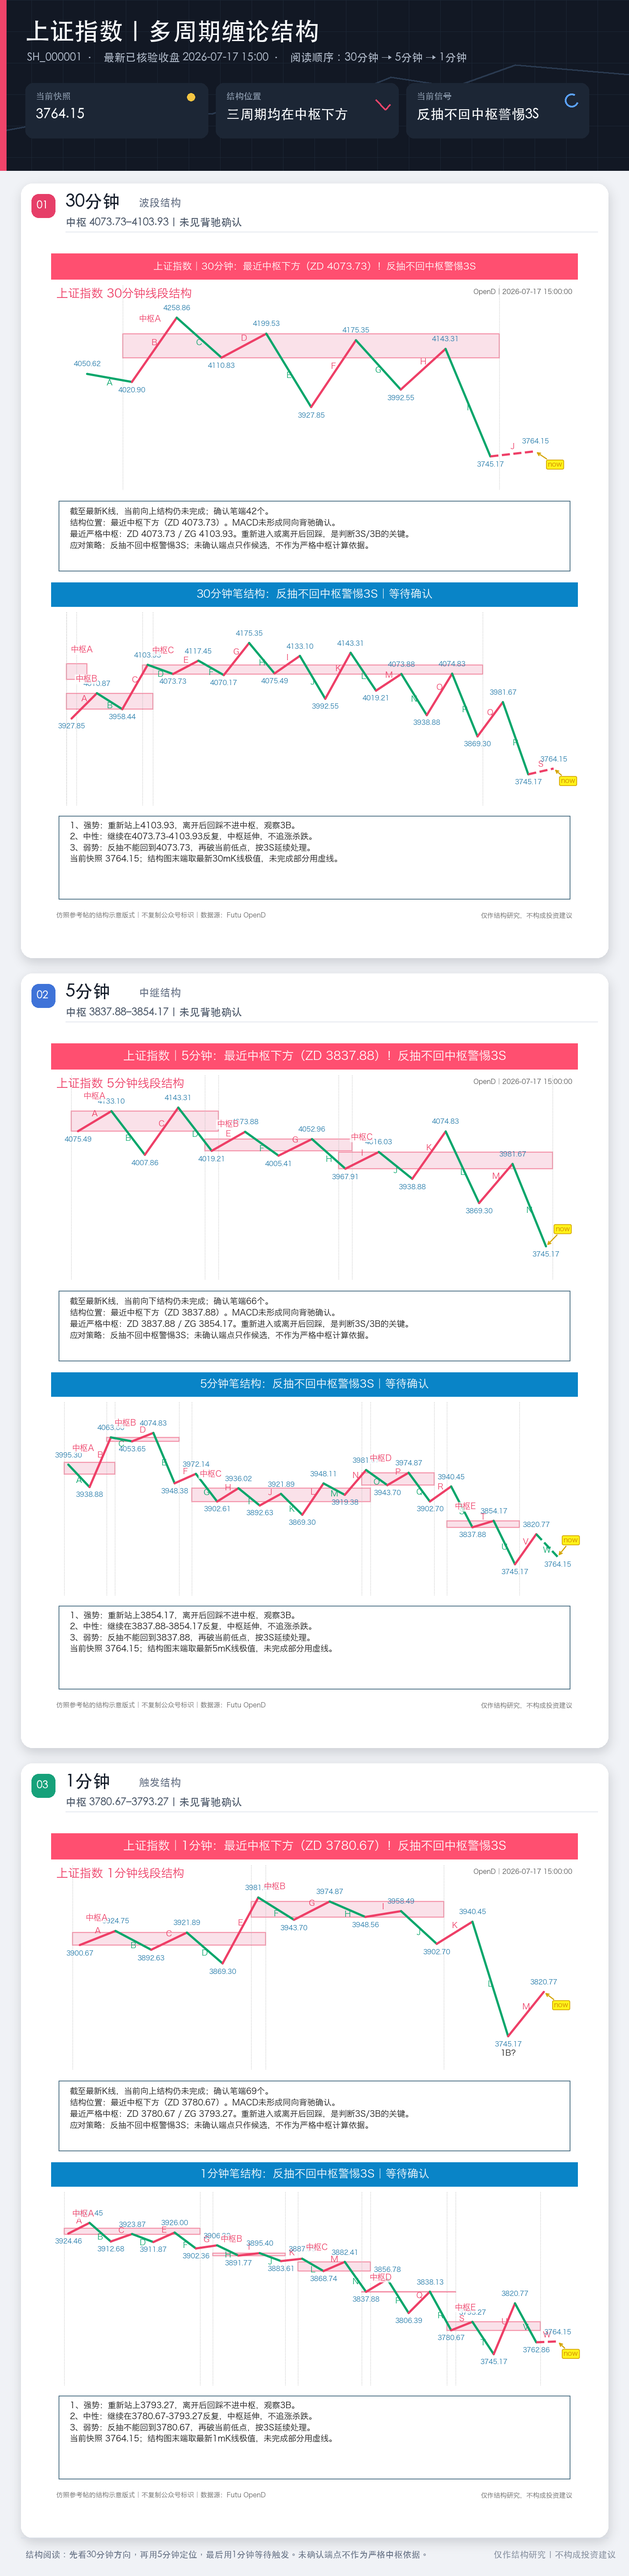
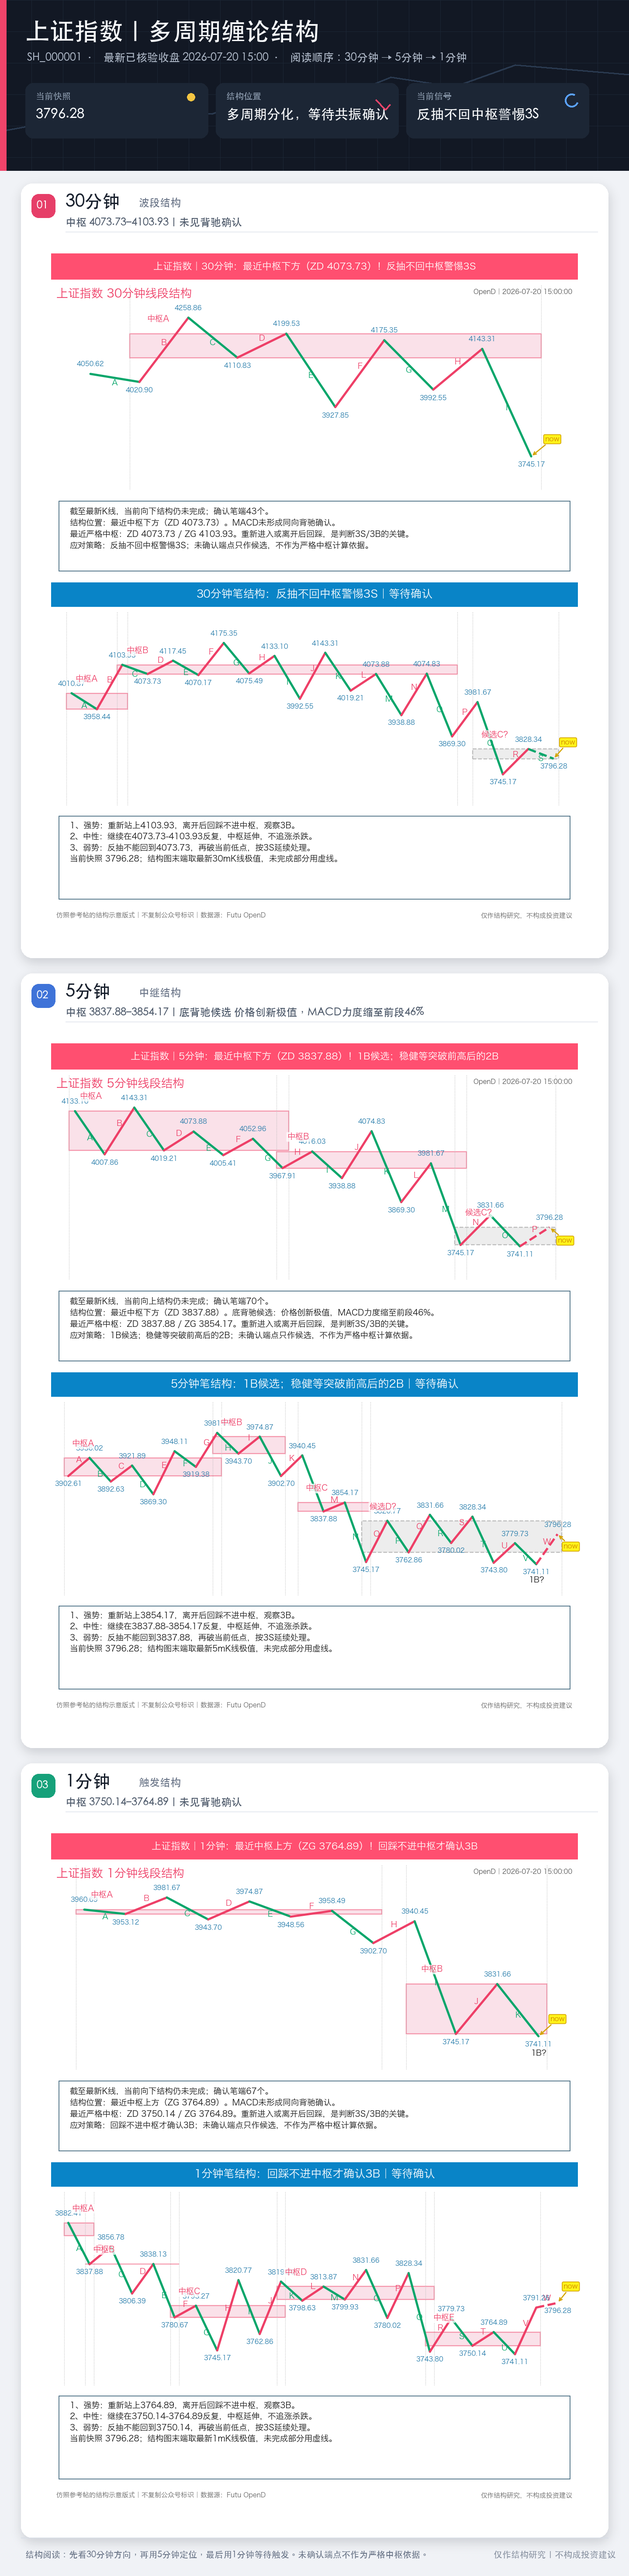
Update chanlun review for 2026-07-20

diff --git a/chanlun/index.html b/chanlun/index.html
@@ -158,7 +158,7 @@
     <header>
       <h1>A股三指数缠论复盘</h1>
       <div class="sub">
-        <span class="badge">交易日 2026-07-17</span>
+        <span class="badge">交易日 2026-07-20</span>
         <span class="badge">339/339 校验通过</span>
         <span class="badge">页面每 300 秒自动刷新</span>
       </div>
@@ -168,54 +168,54 @@
               <div class="card-head">
                 <div>
                   <h2>上证指数</h2>
-                  <p>SH.000001 · 最新已核验收盘 2026-07-17 15:00:00</p>
+                  <p>SH.000001 · 最新已核验收盘 2026-07-20 15:00:00</p>
                 </div>
                 <div class="price-box">
                   <span>收盘</span>
-                  <strong>3764.15</strong>
+                  <strong>3796.28</strong>
                 </div>
               </div>
-              <img src="SH_000001_30m_5m_1m_combined_chanlun.png?v=1784473150" alt="上证指数 合并图">
+              <img src="SH_000001_30m_5m_1m_combined_chanlun.png?v=1784533065" alt="上证指数 合并图">
               <ul class="signals">
                 <li><b>30m</b><span>反抽不回中枢警惕3S</span><em>最近中枢下方（ZD 4073.73）</em></li>
-<li><b>5m</b><span>反抽不回中枢警惕3S</span><em>最近中枢下方（ZD 3837.88）</em></li>
-<li><b>1m</b><span>反抽不回中枢警惕3S</span><em>最近中枢下方（ZD 3780.67）</em></li>
+<li><b>5m</b><span>1B候选；稳健等突破前高后的2B</span><em>最近中枢下方（ZD 3837.88）</em></li>
+<li><b>1m</b><span>回踩不进中枢才确认3B</span><em>最近中枢上方（ZG 3764.89）</em></li>
               </ul>
             </section>
 <section class="card">
               <div class="card-head">
                 <div>
                   <h2>创业板指</h2>
-                  <p>SZ.399006 · 最新已核验收盘 2026-07-17 15:00:00</p>
+                  <p>SZ.399006 · 最新已核验收盘 2026-07-20 15:00:00</p>
                 </div>
                 <div class="price-box">
                   <span>收盘</span>
-                  <strong>3428.63</strong>
+                  <strong>3443.10</strong>
                 </div>
               </div>
-              <img src="SZ_399006_30m_5m_1m_combined_chanlun.png?v=1784473150" alt="创业板指 合并图">
+              <img src="SZ_399006_30m_5m_1m_combined_chanlun.png?v=1784533065" alt="创业板指 合并图">
               <ul class="signals">
                 <li><b>30m</b><span>反抽不回中枢警惕3S</span><em>最近中枢下方（ZD 3824.33）</em></li>
-<li><b>5m</b><span>1B候选；稳健等突破前高后的2B</span><em>最近中枢下方（ZD 3713.78）</em></li>
-<li><b>1m</b><span>反抽不回中枢警惕3S</span><em>最近中枢下方（ZD 3506.72）</em></li>
+<li><b>5m</b><span>1B候选；稳健等突破前高后的2B</span><em>最近中枢下方（ZD 3487.99）</em></li>
+<li><b>1m</b><span>回踩不进中枢才确认3B</span><em>最近中枢上方（ZG 3433.79）</em></li>
               </ul>
             </section>
 <section class="card">
               <div class="card-head">
                 <div>
                   <h2>科创50</h2>
-                  <p>SH.000688 · 最新已核验收盘 2026-07-17 15:00:00</p>
+                  <p>SH.000688 · 最新已核验收盘 2026-07-20 15:00:00</p>
                 </div>
                 <div class="price-box">
                   <span>收盘</span>
-                  <strong>1715.40</strong>
+                  <strong>1718.69</strong>
                 </div>
               </div>
-              <img src="SH_000688_30m_5m_1m_combined_chanlun.png?v=1784473150" alt="科创50 合并图">
+              <img src="SH_000688_30m_5m_1m_combined_chanlun.png?v=1784533065" alt="科创50 合并图">
               <ul class="signals">
                 <li><b>30m</b><span>1B候选；稳健等突破前高后的2B</span><em>最近中枢下方（ZD 1976.92）</em></li>
-<li><b>5m</b><span>反抽不回中枢警惕3S</span><em>最近中枢下方（ZD 1908.18）</em></li>
-<li><b>1m</b><span>反抽不回中枢警惕3S</span><em>最近中枢下方（ZD 1722.89）</em></li>
+<li><b>5m</b><span>1B候选；稳健等突破前高后的2B</span><em>最近中枢下方（ZD 1770.07）</em></li>
+<li><b>1m</b><span>回踩不进中枢才确认3B</span><em>最近中枢上方（ZG 1680.26）</em></li>
               </ul>
             </section>
     </div>
